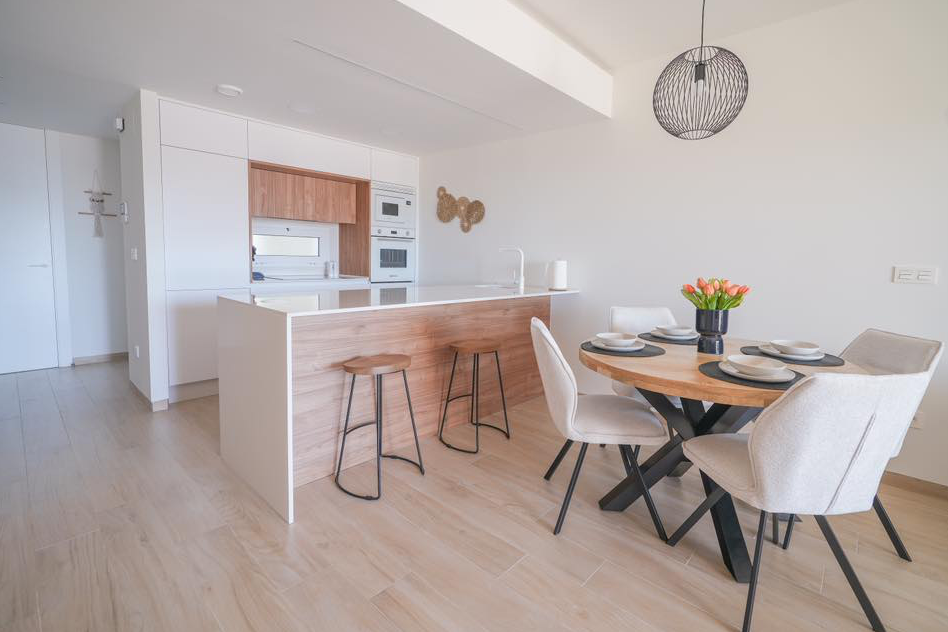
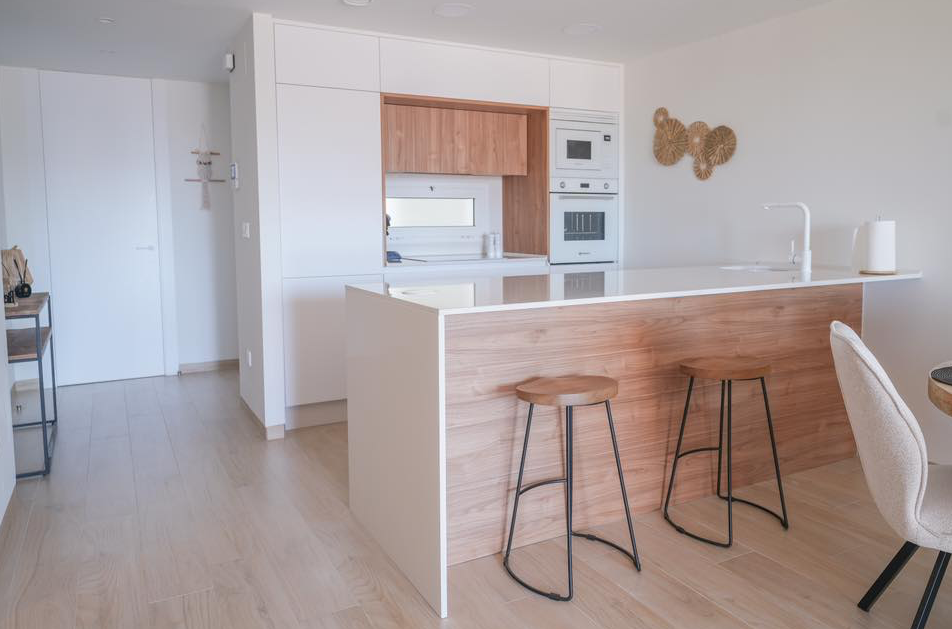
Hero: slider met 3 interieurfoto’s, geen waas of overlay; CSS hero--slider
Made-with: Cursor

diff --git a/public/index.html b/public/index.html
@@ -4,17 +4,17 @@
   <meta charset="utf-8" />
   <meta name="viewport" content="width=device-width, initial-scale=1, viewport-fit=cover" />
   <title>Casa Pheli — Appartement te huur in El Raso, Guardamar del Segura</title>
-  <meta name="description" content="Comfortabel appartement in Area Beach III, El Raso. Zonnig Spanje, Costa Blanca. Informeer naar beschikbaarheid per e-mail." />
+  <meta name="description" content="Comfortabel appartement in El Raso, Guardamar del Segura. Zonnig Spanje, Costa Blanca. Informeer naar beschikbaarheid per e-mail." />
   <link rel="icon" href="/favicon.svg" type="image/svg+xml" />
   <meta property="og:type" content="website" />
   <meta property="og:title" content="Casa Pheli — Appartement te huur in El Raso" />
-  <meta property="og:description" content="Comfortabel appartement in Area Beach III, Guardamar del Segura. Beschikbaarheid per e-mail." />
+  <meta property="og:description" content="Comfortabel appartement in El Raso, Guardamar del Segura. Beschikbaarheid per e-mail." />
   <meta property="og:locale" content="nl_BE" />
   <link rel="preconnect" href="https://fonts.googleapis.com" />
   <link rel="preconnect" href="https://fonts.gstatic.com" crossorigin />
   <link href="https://fonts.googleapis.com/css2?family=Cormorant+Garamond:wght@500;600&family=DM+Sans:wght@400;500;600&display=swap" rel="stylesheet" />
-  <link rel="preload" as="image" href="/assets/hero-strand-1920.jpg" fetchpriority="high" />
-  <link rel="stylesheet" href="/styles.css?v=20" />
+  <link rel="preload" as="image" href="/assets/hero-woonkamer.png" fetchpriority="high" />
+  <link rel="stylesheet" href="/styles.css?v=22" />
 </head>
 <body>
   <header class="site-header">
@@ -35,26 +35,28 @@
   </header>
 
   <main>
-    <section class="hero hero--strand" aria-labelledby="hero-title">
-      <div class="hero-media" aria-hidden="true">
-        <img
-          src="/assets/hero-strand-1920.jpg"
-          alt=""
-          width="1920"
-          height="1282"
-          fetchpriority="high"
-          decoding="async"
-        />
+    <section class="hero hero--slider" aria-labelledby="hero-title">
+      <div class="hero-slider" data-hero-slider aria-hidden="true">
+        <div class="hero-slide is-active" style="background-image: url(/assets/hero-woonkamer.png)"></div>
+        <div class="hero-slide" style="background-image: url(/assets/hero-keuken.png)"></div>
+        <div class="hero-slide" style="background-image: url(/assets/hero-slaapkamer.png)"></div>
       </div>
       <div class="wrap hero-copy">
         <h1 id="hero-title">Uw zonnige uitvalsbasis aan de Costa Blanca</h1>
         <p class="lead">
-          Welkom bij <strong>Casa Pheli</strong>: een modern appartement in <strong>Area Beach III</strong>, El Raso (Guardamar del Segura).
-          Geniet van rust, comfort en het Spaanse buitenleven — op korte afstand van strand, natuur en gezellige plaatsen.
+          Welkom bij <strong>Casa Pheli</strong>: een modern appartement in <strong>El Raso</strong> (Guardamar del Segura).
+          Geniet van rust, comfort en het Spaanse buitenleven — met natuur en gezellige plaatsen dichtbij.
         </p>
         <div class="hero-actions">
           <a class="btn btn-primary" href="/boeken">Beschikbaarheid aanvragen</a>
           <a class="btn btn-ghost" href="/galerij">Bekijk de galerij</a>
+        </div>
+      </div>
+      <div class="wrap hero-dots-wrap" role="presentation">
+        <div class="hero-dots" role="tablist" aria-label="Wisselende sfeerbeelden">
+          <button type="button" class="hero-dot is-active" data-hero-dot role="tab" aria-selected="true" aria-label="Beeld 1 van 3"></button>
+          <button type="button" class="hero-dot" data-hero-dot role="tab" aria-selected="false" aria-label="Beeld 2 van 3"></button>
+          <button type="button" class="hero-dot" data-hero-dot role="tab" aria-selected="false" aria-label="Beeld 3 van 3"></button>
         </div>
       </div>
     </section>
@@ -65,7 +67,7 @@
           <h2>Waarom Casa Pheli?</h2>
           <p>
             Het appartement maakt deel uit van een recent residentieel complex met zwembaden, groenzones en parkeermogelijkheden.
-            Ideaal voor koppels en kleine gezinnen die houden van zon, zee en een ontspannen sfeer.
+            Ideaal voor koppels en kleine gezinnen die houden van zon en een ontspannen sfeer.
           </p>
           <p>
             Reserveren verloopt persoonlijk: u neemt contact op per e-mail en wij helpen u graag verder met data, prijs en praktische info.
@@ -73,7 +75,7 @@
         </div>
         <div class="card">
           <h3>In het kort</h3>
-          <p><strong>Locatie:</strong> Carrer el Tomello, Area Beach III, blok 2, app. 47 — El Raso, Guardamar del Segura.</p>
+          <p><strong>Locatie:</strong> Carrer el Tomello, blok 2, app. 47 — El Raso, Guardamar del Segura.</p>
           <p style="margin-top: 0.75rem"><strong>Contact:</strong> <a href="mailto:heidi.torfs@outlook.be">heidi.torfs@outlook.be</a></p>
         </div>
       </div>
@@ -82,7 +84,7 @@
     <section class="section section--alt">
       <div class="wrap">
         <h2>Ontdek de omgeving</h2>
-        <p>Van zandstranden tot zoutmeren en gezellige markten: de regio heeft voor ieder wat wils.</p>
+        <p>Van markten tot natuurgebieden: de regio heeft voor ieder wat wils.</p>
         <p style="margin-top: 1rem">
           <a class="btn btn-ghost" href="/bezienswaardigheden">Bezienswaardigheden</a>
         </p>
@@ -100,5 +102,6 @@
     document.getElementById("y").textContent = new Date().getFullYear();
   </script>
   <script src="/scripts/nav.js" defer></script>
+  <script src="/scripts/hero-slider.js" defer></script>
 </body>
 </html>

diff --git a/public/styles.css b/public/styles.css
@@ -185,52 +185,62 @@ a:hover {
 .hero {
   position: relative;
   padding: clamp(2.5rem, 8vw, 4.5rem) 0 clamp(2.75rem, 7vw, 4rem);
-  background:
-    linear-gradient(165deg, rgba(250, 246, 240, 0.88) 0%, rgba(235, 227, 216, 0.55) 45%, rgba(212, 201, 187, 0.35) 100%),
-    radial-gradient(ellipse 120% 80% at 50% -20%, rgba(201, 162, 39, 0.18), transparent 55%);
   border-bottom: 1px solid var(--line);
 }
 
-/* Eén grote hero: scherp JPEG (1920px) + <img> i.p.v. kleine PNG oprekken */
-.hero.hero--strand {
+/* Crème-gradient alleen op helden zónder foto-slider */
+.hero:not(.hero--slider) {
+  background:
+    linear-gradient(165deg, rgba(250, 246, 240, 0.88) 0%, rgba(235, 227, 216, 0.55) 45%, rgba(212, 201, 187, 0.35) 100%),
+    radial-gradient(ellipse 120% 80% at 50% -20%, rgba(201, 162, 39, 0.18), transparent 55%);
+}
+
+/* Foto-slider: drie beelden, géén overlay/scrim/waas — alleen slides + tekst erboven */
+.hero.hero--slider {
   position: relative;
   display: flex;
   flex-direction: column;
   justify-content: center;
-  min-height: clamp(20rem, min(44vh, calc(100vw * 0.34)), 32rem);
-  max-height: min(58vh, 36rem);
-  padding: clamp(1.75rem, 5vw, 3rem) 0;
+  min-height: clamp(22rem, 58vh, 38rem);
+  max-height: min(70vh, 40rem);
+  padding: 0;
   overflow: hidden;
   border-bottom: 1px solid var(--line);
-  /* MOET .hero { background: … } volledig overschrijven — anders blijft de crème-gradient
-     als background-image staan en krijg je een witte waas over de foto. */
-  background: none;
-  background-color: #0b3550;
+  background-color: #2c2825;
+  isolation: isolate;
 }
 
-.hero--strand .hero-media {
+.hero-slider {
   position: absolute;
   inset: 0;
   z-index: 0;
+}
+
+.hero-slide {
+  position: absolute;
+  inset: 0;
+  background-size: cover;
+  background-position: center;
+  background-repeat: no-repeat;
+  opacity: 0;
   pointer-events: none;
+  transition: opacity 0.85s ease;
 }
 
-.hero--strand .hero-media img {
-  width: 100%;
-  height: 100%;
-  object-fit: cover;
-  object-position: center 30%;
-  display: block;
-}
-
-.hero--strand .hero-copy {
-  position: relative;
+.hero-slide.is-active {
+  opacity: 1;
   z-index: 1;
-  text-align: center;
-  padding: 0 clamp(1rem, 3vw, 1.5rem);
 }
 
-.hero--strand .hero-copy h1 {
+.hero--slider .hero-copy {
+  position: relative;
+  z-index: 2;
+  text-align: center;
+  padding: clamp(2rem, 6vw, 3.5rem) clamp(1rem, 3vw, 1.5rem) clamp(1.5rem, 4vw, 2.5rem);
+  background: transparent;
+}
+
+.hero--slider .hero-copy h1 {
   color: #fffefb;
   text-shadow:
     0 0 2px rgba(0, 0, 0, 0.85),
@@ -238,7 +248,7 @@ a:hover {
     0 4px 24px rgba(0, 0, 0, 0.55);
 }
 
-.hero--strand .hero-copy .lead {
+.hero--slider .hero-copy .lead {
   margin-inline: auto;
   color: rgba(255, 254, 251, 0.98);
   text-shadow:
@@ -247,26 +257,62 @@ a:hover {
     0 1px 12px rgba(0, 0, 0, 0.45);
 }
 
-.hero--strand .hero-copy strong {
+.hero--slider .hero-copy strong {
   color: #fff;
   font-weight: 600;
 }
 
-.hero--strand .hero-actions {
+.hero--slider .hero-actions {
   justify-content: center;
 }
 
-.hero--strand .btn-ghost {
+.hero--slider .btn-ghost {
   background: rgba(255, 254, 251, 0.12);
   color: #fffefb;
   border: 1px solid rgba(255, 254, 251, 0.45);
   box-shadow: 0 2px 14px rgba(0, 0, 0, 0.2);
 }
 
-.hero--strand .btn-ghost:hover {
+.hero--slider .btn-ghost:hover {
   background: rgba(255, 254, 251, 0.24);
   color: #fff;
   border-color: rgba(255, 254, 251, 0.65);
+}
+
+.hero-dots-wrap {
+  position: relative;
+  z-index: 2;
+  padding-bottom: clamp(1.25rem, 3vw, 1.85rem);
+}
+
+.hero-dots {
+  display: flex;
+  justify-content: center;
+  gap: 0.5rem;
+}
+
+.hero-dot {
+  width: 11px;
+  height: 11px;
+  padding: 0;
+  border-radius: 999px;
+  border: 2px solid rgba(61, 52, 41, 0.3);
+  background: rgba(255, 254, 251, 0.6);
+  cursor: pointer;
+  transition:
+    background 0.2s,
+    transform 0.2s,
+    border-color 0.2s;
+}
+
+.hero-dot:hover {
+  border-color: rgba(168, 107, 74, 0.55);
+}
+
+.hero-dot.is-active {
+  background: var(--terracotta);
+  border-color: var(--terracotta);
+  transform: scale(1.12);
 }
 
 .hero h1 {

diff --git a/public/404.html b/public/404.html
@@ -9,7 +9,7 @@
   <link rel="preconnect" href="https://fonts.googleapis.com" />
   <link rel="preconnect" href="https://fonts.gstatic.com" crossorigin />
   <link href="https://fonts.googleapis.com/css2?family=Cormorant+Garamond:wght@500;600&family=DM+Sans:wght@400;500;600&display=swap" rel="stylesheet" />
-  <link rel="stylesheet" href="/styles.css?v=20" />
+  <link rel="stylesheet" href="/styles.css?v=22" />
 </head>
 <body>
   <header class="site-header">

diff --git a/public/bezienswaardigheden.html b/public/bezienswaardigheden.html
@@ -9,7 +9,7 @@
   <link rel="preconnect" href="https://fonts.googleapis.com" />
   <link rel="preconnect" href="https://fonts.gstatic.com" crossorigin />
   <link href="https://fonts.googleapis.com/css2?family=Cormorant+Garamond:wght@500;600&family=DM+Sans:wght@400;500;600&display=swap" rel="stylesheet" />
-  <link rel="stylesheet" href="/styles.css?v=20" />
+  <link rel="stylesheet" href="/styles.css?v=22" />
 </head>
 <body>
   <header class="site-header">

diff --git a/public/boeken.html b/public/boeken.html
@@ -9,7 +9,7 @@
   <link rel="preconnect" href="https://fonts.googleapis.com" />
   <link rel="preconnect" href="https://fonts.gstatic.com" crossorigin />
   <link href="https://fonts.googleapis.com/css2?family=Cormorant+Garamond:wght@500;600&family=DM+Sans:wght@400;500;600&display=swap" rel="stylesheet" />
-  <link rel="stylesheet" href="/styles.css?v=20" />
+  <link rel="stylesheet" href="/styles.css?v=22" />
 </head>
 <body>
   <header class="site-header">

diff --git a/public/contact.html b/public/contact.html
@@ -9,7 +9,7 @@
   <link rel="preconnect" href="https://fonts.googleapis.com" />
   <link rel="preconnect" href="https://fonts.gstatic.com" crossorigin />
   <link href="https://fonts.googleapis.com/css2?family=Cormorant+Garamond:wght@500;600&family=DM+Sans:wght@400;500;600&display=swap" rel="stylesheet" />
-  <link rel="stylesheet" href="/styles.css?v=20" />
+  <link rel="stylesheet" href="/styles.css?v=22" />
 </head>
 <body>
   <header class="site-header">

diff --git a/public/galerij.html b/public/galerij.html
@@ -9,7 +9,7 @@
   <link rel="preconnect" href="https://fonts.googleapis.com" />
   <link rel="preconnect" href="https://fonts.gstatic.com" crossorigin />
   <link href="https://fonts.googleapis.com/css2?family=Cormorant+Garamond:wght@500;600&family=DM+Sans:wght@400;500;600&display=swap" rel="stylesheet" />
-  <link rel="stylesheet" href="/styles.css?v=20" />
+  <link rel="stylesheet" href="/styles.css?v=22" />
 </head>
 <body>
   <header class="site-header">

diff --git a/public/gastenboek.html b/public/gastenboek.html
@@ -9,7 +9,7 @@
   <link rel="preconnect" href="https://fonts.googleapis.com" />
   <link rel="preconnect" href="https://fonts.gstatic.com" crossorigin />
   <link href="https://fonts.googleapis.com/css2?family=Cormorant+Garamond:wght@500;600&family=DM+Sans:wght@400;500;600&display=swap" rel="stylesheet" />
-  <link rel="stylesheet" href="/styles.css?v=20" />
+  <link rel="stylesheet" href="/styles.css?v=22" />
 </head>
 <body>
   <header class="site-header">
